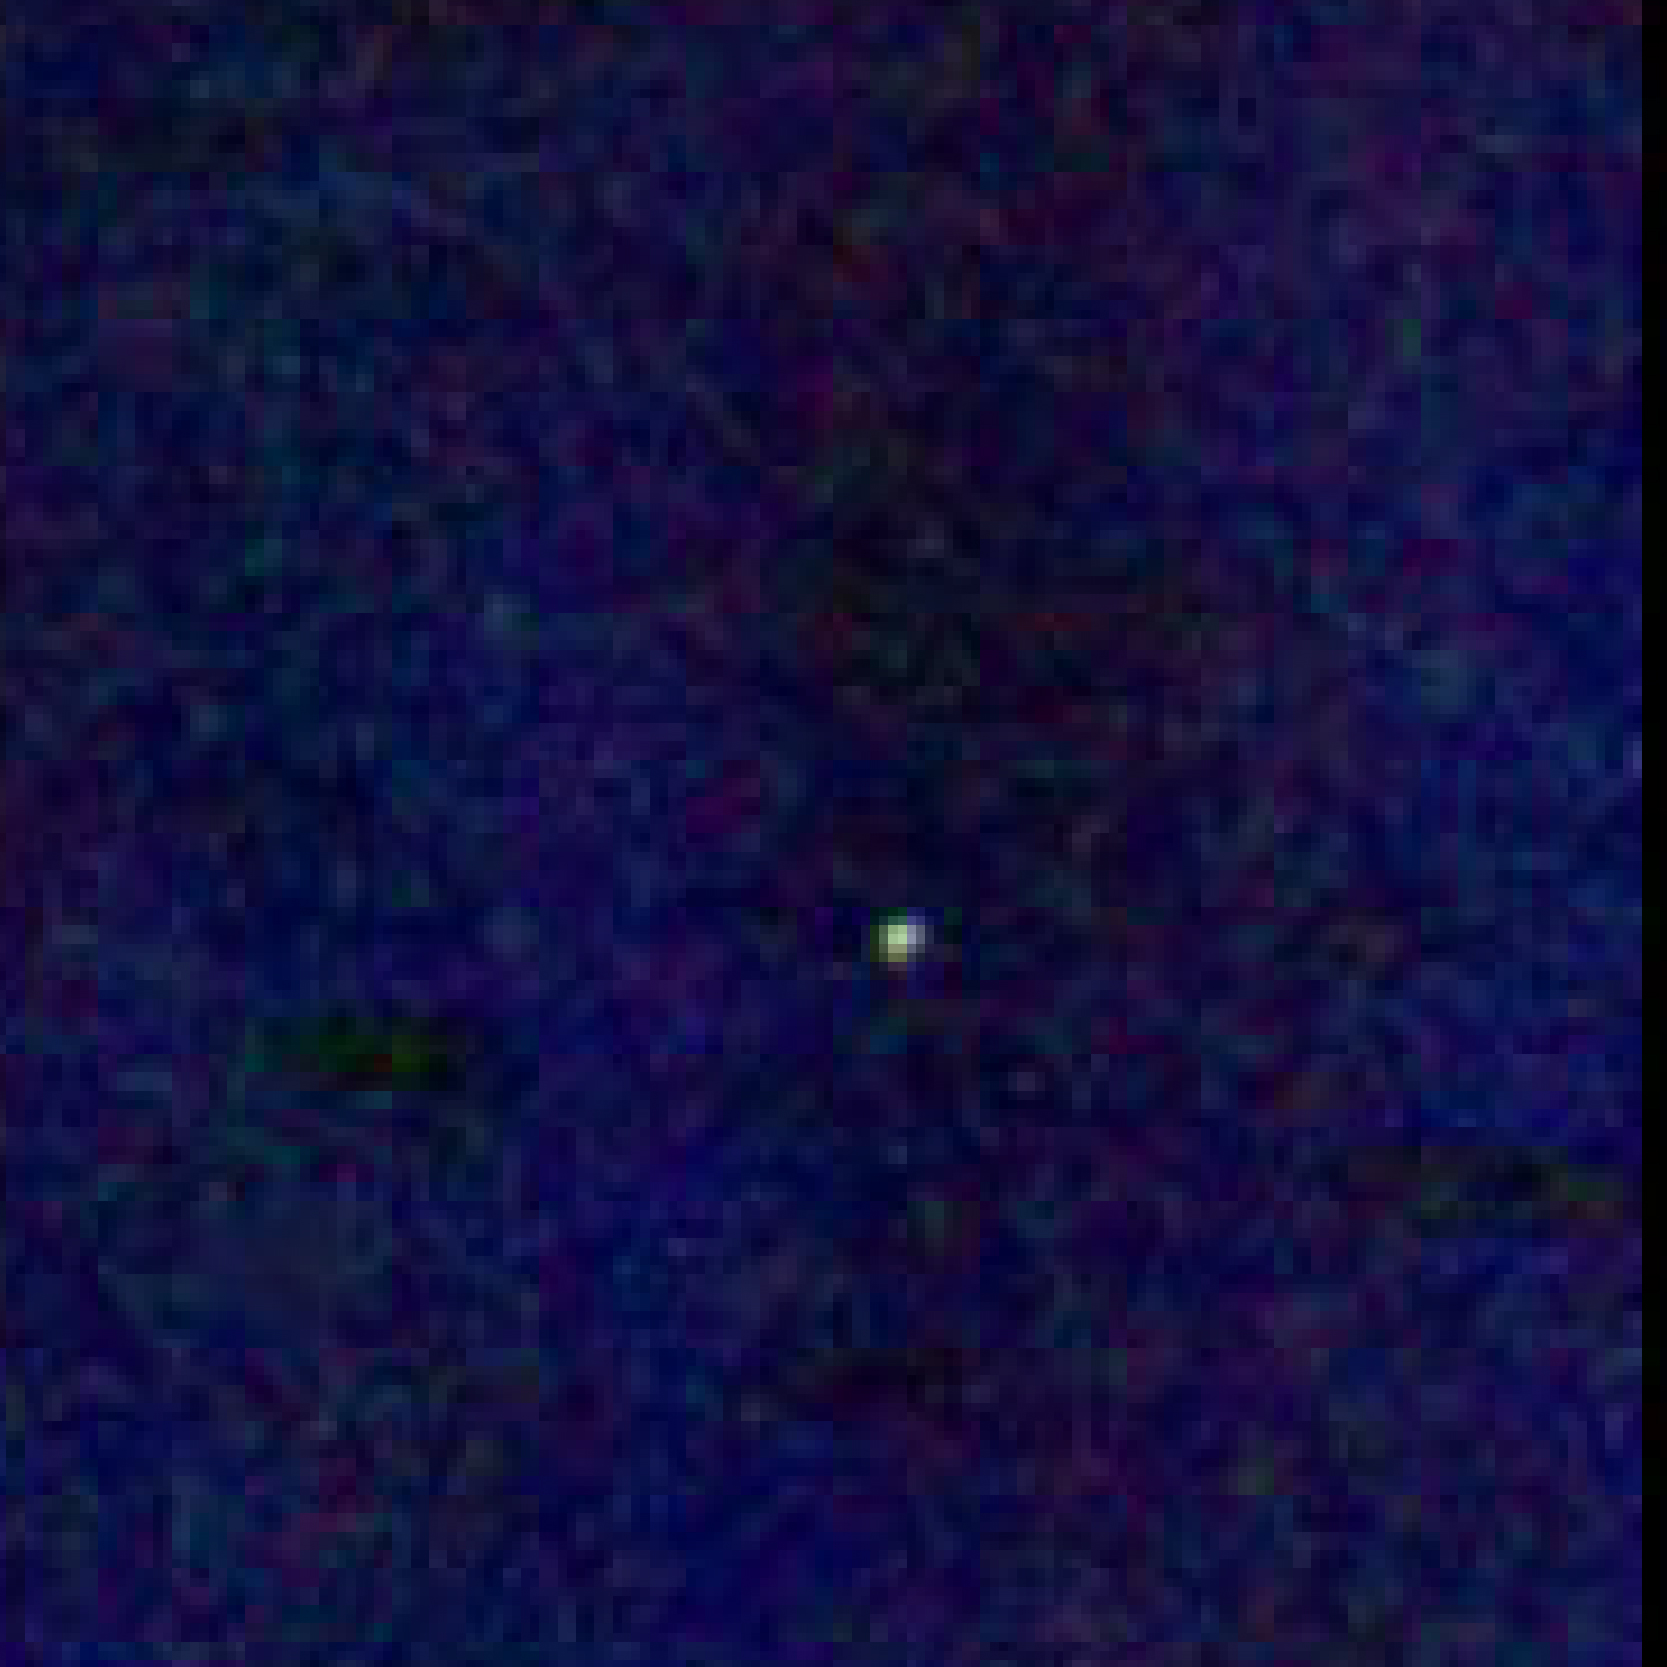
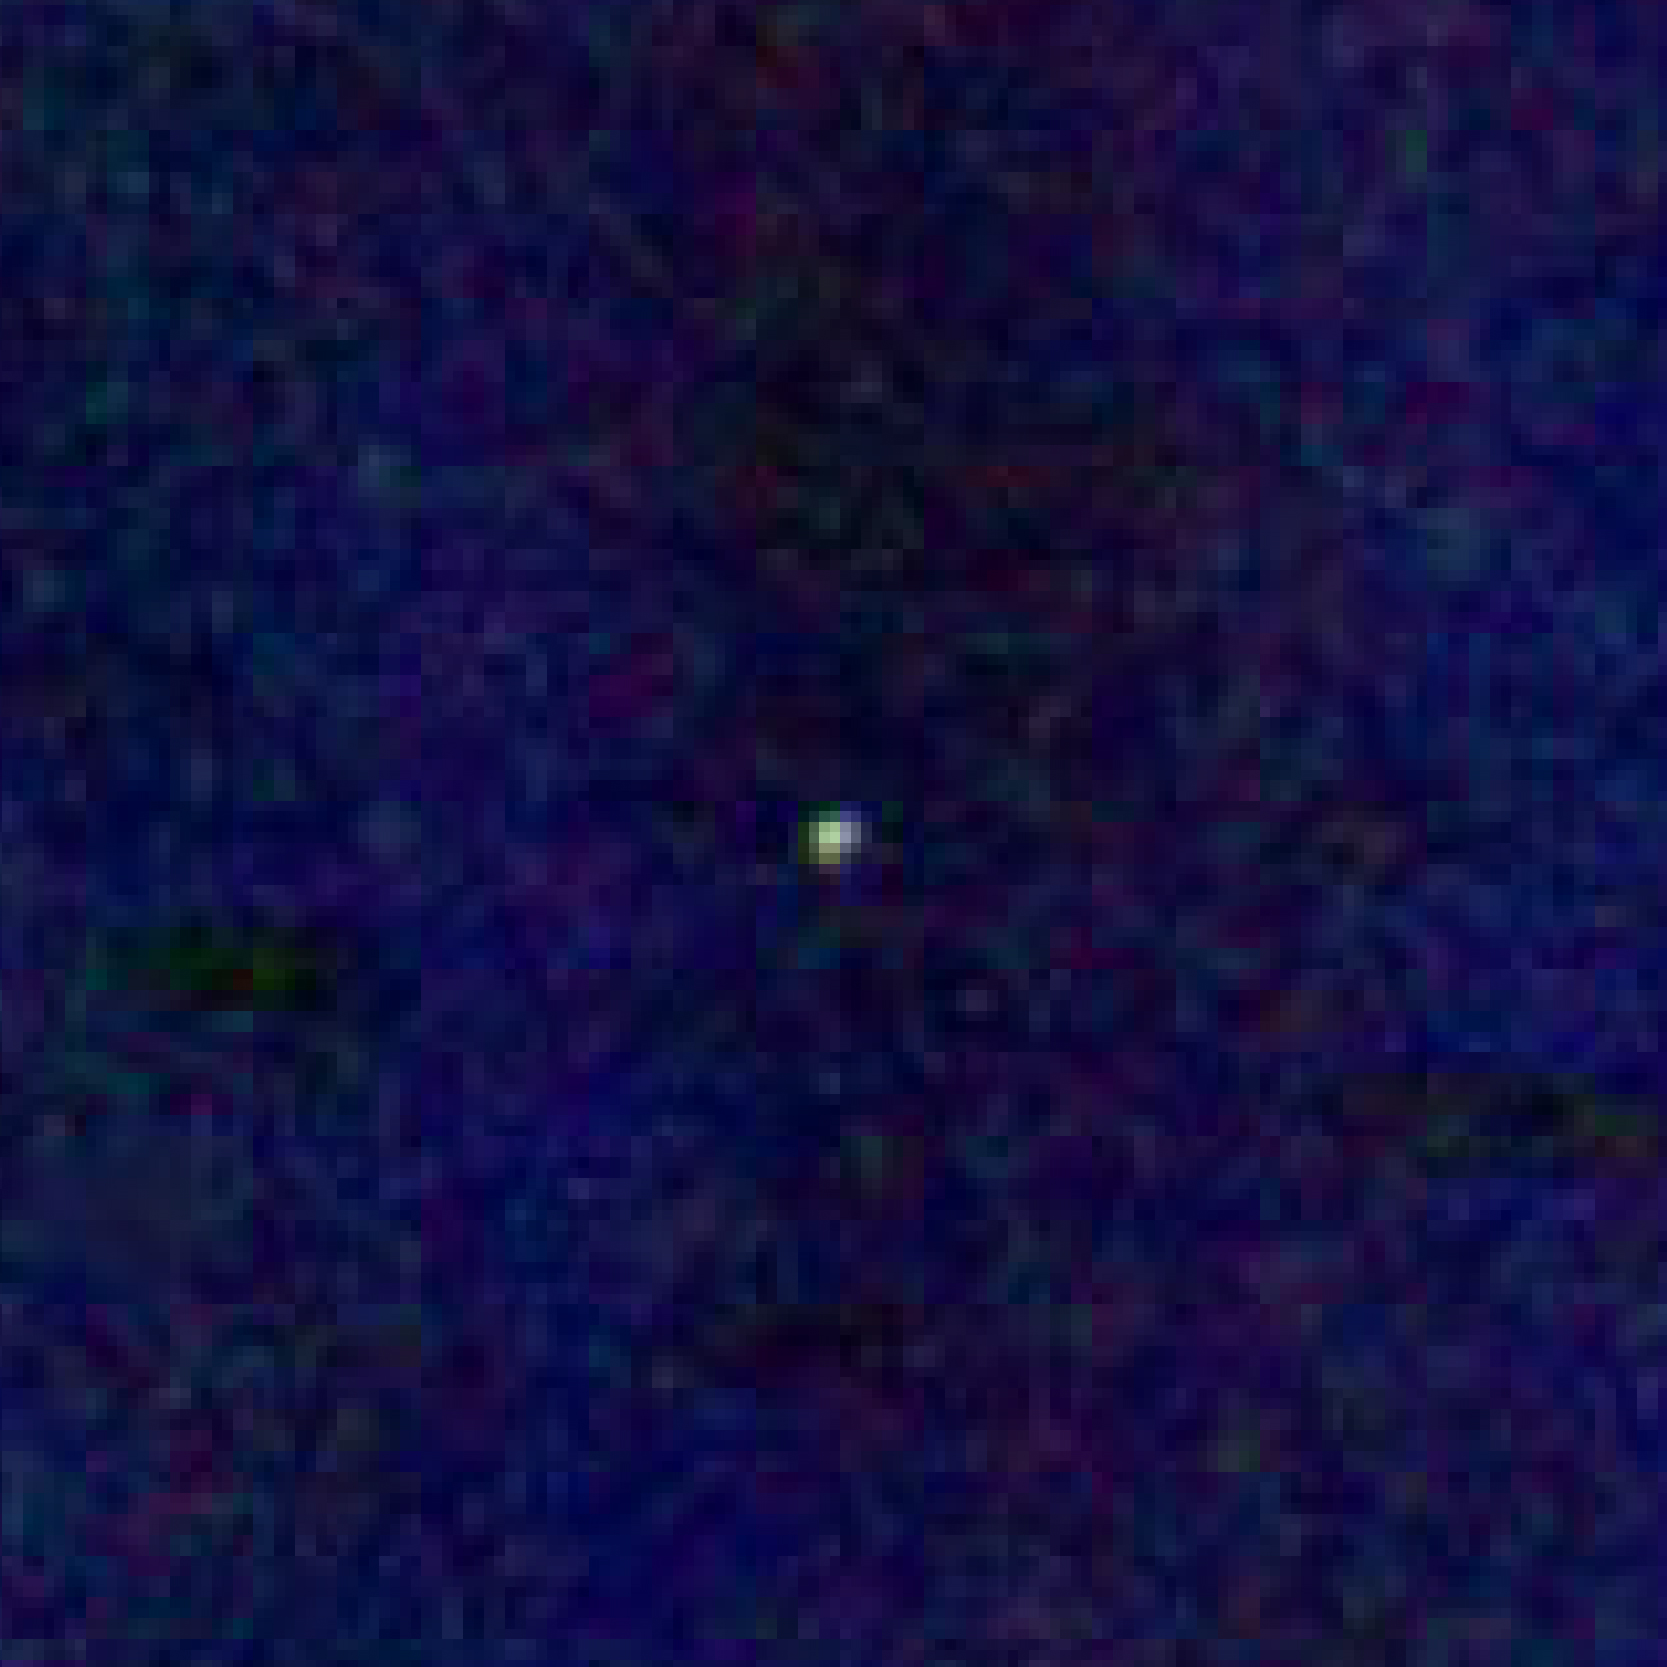
update

diff --git a/index.html b/index.html
@@ -115,7 +115,7 @@
                     <div class="width10"></div>
 
                     <div class="width40 flexend">
-                        <div class="worldimg"><img src="worldsphere.png" alt="a 2d sphere made up of lines" ></div>
+                        <div class="worldimg"><img src="worldsphereinverse.png" alt="a 2d sphere made up of lines" ></div>
                     </div>
                     
                     <div class="flexcol width50 right">
@@ -191,7 +191,7 @@
                     <div class="width50 flexcol">
                         <!-- 1 -->
                         <div class="flexwrap topline2 exomarg2">
-                            <div class="exo exomarg"></div>
+                            <div class="exo1 exomarg"></div>
                             <div class="subhead2 exomarg">EXO-1</div>
                             <div class="body2 exomarg exomarg2">
                                 <strong>Stellar Magnitude:</strong> 8.05 <br>
@@ -201,7 +201,7 @@
                         </div>
                         <!-- 2 -->
                         <div class="flexwrap topline2 exomarg2">
-                            <div class="exo exomarg"></div>
+                            <div class="exo2 exomarg"></div>
                             <div class="subhead2 exomarg">EXO-2</div>
                             <div class="body2 exomarg exomarg2">
                                 <strong>Stellar Magnitude:</strong> 26.602 <br>
@@ -211,7 +211,7 @@
                         </div>
                         <!-- 3 -->
                         <div class="flexwrap topline2 exomarg2">
-                            <div class="exo exomarg"></div>
+                            <div class="exo3 exomarg"></div>
                             <div class="subhead2 exomarg">EXO-3</div>
                             <div class="body2 exomarg exomarg2">
                                 <strong>Stellar Magnitude:</strong> 8.73 <br>
@@ -221,7 +221,7 @@
                         </div>
                         <!-- 4 -->
                         <div class="flexwrap topline2 exomarg2">
-                            <div class="exo exomarg"></div>
+                            <div class="exo4 exomarg"></div>
                             <div class="subhead2 exomarg">EXO-4</div>
                             <div class="body2 exomarg exomarg2">
                                 <strong>Stellar Magnitude:</strong> Unknown <br>
@@ -231,7 +231,7 @@
                         </div>
                         <!-- 5 -->
                         <div class="flexwrap topline2 exomarg2">
-                            <div class="exo exomarg"></div>
+                            <div class="exo5 exomarg"></div>
                             <div class="subhead2 exomarg">EXO-5</div>
                             <div class="body2 exomarg exomarg2">
                                 <strong>Stellar Magnitude:</strong> 12.23 <br>
@@ -241,7 +241,7 @@
                         </div>
                         <!-- 6 -->
                         <div class="flexwrap topline2 exomarg2">
-                            <div class="exo exomarg"></div>
+                            <div class="exo6 exomarg"></div>
                             <div class="subhead2 exomarg">EXO-6</div>
                             <div class="body2 exomarg exomarg2">
                                 <strong>Stellar Magnitude:</strong> 7.305 <br>
@@ -422,7 +422,7 @@
 
 
 <!-- 03 LANDFALL -->
-<div class="flexbox bg1">
+    <div class="flexbox bg1">
         <!-- space for binder -->
         <div class="width5"></div>
         <!-- left margin -->
@@ -564,7 +564,7 @@
 
 
 <!-- 04 ANALYSIS -->
-<div class="flexbox bg2">
+    <div class="flexbox bg2">
         <!-- space for binder -->
         <div class="width5"></div>
         <!-- left margin -->
@@ -576,7 +576,7 @@
                 <div class="width10"><div class="heading rightalign"><span style="font-size: 48px;">04</span></div></div>
                 <div class="width60">
                     <div class="heading">ANALYSIS</div>
-                    <div class="subhead subheadmargleft topline2">THE WORLD 3 MODEL</div>
+                    <div class="subhead subheadmargleft topline">THE WORLD 3 MODEL</div>
                     <div class="body bodypad justifytext">A major purpose in constructing the world model has been to determine which, if any, of these behaviour modes will be most characteristic of the world system as it reaches the limits to growth.</div>
                 </div>
             </div>
@@ -628,16 +628,131 @@
 <div class="break bg2"></div>
 <div class="break bg2"></div>
 
+<div class="flexbox bg2">
+        <!-- space for binder -->
+        <div class="width5"></div>
+        <!-- left margin -->
+        <div class="width10"></div>
+        <!-- content -->
+        <div class="width75">
+            <div class="flexbox width100">
+                <div class="width10"><div class="heading rightalign"><span style="font-size: 48px;">05</span></div></div>
+                <div class="width60">
+                    <div class="heading">GROWTH</div>
+                    <div class="subhead subheadmargleft topline">ARABLE LAND</div>
+                    <div class="body bodypad justifytext">The total world supply of arable land on exo-3 is estimated to be around 3.2 billion hectares. The use of the land is matched with the population growth curve and assumes that it will continue to grow, as technology improves helping food production per hectare. As industrialisation and urbanisation increase with population, the model predicts the appropriate amount of land use needed to create a sustainable feedback loop to preserve the optimal amount of biodiversity for the exponential humanisation.</div>
+                
+                    <div class="break"></div>
 
+                    <div class="subhead subheadmargleft topline">NATURAL RESOURCES</div>
+                    <div class="body bodypad justifytext">Assessment of exo-3 concludes a substantial stockpile of resources that if managed and recycled effectively could provide opportunities for series planetary growth. To ensure proper management the model suggests that a conservative approach to mining be considered to address unnecessary destruction of the natural biosphere.</div>
 
+                    <div class="break"></div>
 
+                    <div class="subhead subheadmargleft topline">INDUSTRIAL OUTPUT</div>
+                    <div class="body bodypad justifytext">As land usage and population increase’s, industrialisation increases at the same rate to match demand. The model of this proposed growth based on the analysis of exo-3 predicts total industrialisation by 2051, however this needs to be managed efficiently and with purpose to ensure maximum benefit of land usage spread between, resource collection, agriculture use, room to live and preservation of the biosphere.</div>
+                    <div class="body bodypad justifytext">The model suggests that industrial growth needs to be managed effectively through policy, crushing the desire for profit over sustainable practices, to ensure the survival of humanity on exo-3. Without major changes to the ways of living experienced on earth, this new potential terrestrial will succumb to our own desire for unlimited growth.</div>
 
+                    <div class="break"></div>
 
+                    <div class="subhead subheadmargleft topline">POPULATION GROWTH</div>
+                    <div class="body bodypad justifytext">The driving factor in growth is resource demand to sustain the population at replacement rate. Should population grow exponentially, other areas such as industry, land use and resource extraction will be required to meet demand. On exo-3 it’s imperative that all these factors of growth be monitored carefully and limited to best preserve the potential new world as well as place limits on inefficient and unnecessary growth.</div>
+                    <div class="body bodypad justifytext">Although the perspectives of the world’s population may vary in space and time, every human concern falls somewhere within a distance and length of space and time.</div>
+                    <div class="body bodypad justifytext">The majority of people are concerned with matters that only affect family and friends over a short period of time. Only a very few people share a global perspective of a planet as connected network of systems. This long-term future dream of a planetary perspective is hoped to be achieved on exo-3.</div>
+                
+                    <div class="break"></div>
 
+                    <div class="subhead subheadmargleft topline">POLLUTION MANAGEMENT</div>
+                    <div class="body bodypad justifytext">The pollution generated by the initial colonisation of exo-3 will be inevitable, however by ensuring use of renewable technologies and limiting and recycling non-renewable material, pollution risks can be mitigated to lessen the impact on the natural surfaces of the untouched terrestrial.</div>
+                    <div class="body bodypad justifytext">The world3 model factors in the improvement of all systems over time as technology improves, therefore accounting for the reduction of pollutants being generated as systems improve and become less reliant on dirty methods of extraction, transportation and usage.</div>
+                    <div class="body bodypad justifytext">As the health technology improves as humanity becomes more established on exo-3, our understanding of the harms of pollutants can be mitigated, however it’s important we acknowledge the harm on the planet as a whole system from a planetary world view.</div>
 
+                </div>
+                <div class="width30"></div>
+            </div>
+        </div>
+        <!-- right margin -->
+        <div class="width10 flex flexend">
+            <div class="caption allcaps captionmargright"></div>
+        </div>
+    </div>
 
+<div class="break bg2"></div>
+<div class="break bg2"></div>
 
+<div class="flexbox bg2">
+        <!-- space for binder -->
+        <div class="width5"></div>
+        <!-- left margin -->
+        <div class="width10"></div>
+        <!-- content -->
+        <div class="width75">
+            <div class="flexbox width100">
+                <div class="width30"></div>
+                <div class="width10"><div class="heading rightalign"><span style="font-size: 48px;">04</span></div></div>
+                <div class="width60">
+                    <div class="heading">SOLUTIONS</div>
+                    <div class="subhead subheadmargleft topline">UNTIL 2100</div>
 
+                    <div class="body bodypad justifytext">Using the world3 model in combination with data and analysis of exo-3, the standard run of quantifying the output of humanities growth exponentially rises until it ends in overshoot and collapse. Industry grows until the amount of resources it requires is unsustainable. This effects capital growth and agricultural efficiency therefore knocking the whole system out of balancing and shifting age structure and social adjustments. Population then finally decreases when the birth death rate becomes unsustainable due to lack of food and health services.</div>
+                        <div class="quote bodypad indent">Most persons think that a state in order to be happy ought to be large; but even if they are right, they have no idea of what is a large and what a small state…. To the size of states there is a limit, as there is to other things, plants, animals, implements; for none of these retain their natural power when they are too large or too small, but they either wholly lose their nature, or are spoiled.
+                            <div class="quote rightalign"><br>ARISTOTLE, 322 B.C.</div>
+                        </div>
+
+                    <div class="break"></div>
+                    <img src="Standard_Run.png" alt="">
+                    <div class="break"></div>
+
+                    <div class="body bodypad justifytext">The model is biased to allow growth to continue longer than it can continue in the real world and therefore growth is expected to cease well before 2100, as society breaks down as the natural resources of exo-3 are diminished and fought over, as the chances for a sustainable new world vanish.</div>
+                </div>
+            </div>
+        </div>
+        <!-- right margin -->
+        <div class="width10 flex flexend"></div>
+    </div>
+
+<div class="break bg2"></div>
+
+<div class="flexbox bg2">
+        <!-- space for binder -->
+        <div class="width5"></div>
+        <!-- left margin -->
+        <div class="width10"></div>
+        <!-- content -->
+        <div class="width75">
+            <div class="flexbox width100">
+                <div class="width30"></div>
+                <div class="width10"></div>
+                <div class="width60">
+                    <div class="subhead subheadmargleft topline">THE LIMITS TO GROWTH</div>
+                    <div class="body bodypad justifytext">As the modelled rate of growth is unsustainable without limits, the Club of Rome and NASA have identified a ‘natural limit’ to be applied to the future society of exo-3 through a stabilised world model that creates self-imposed limits on population growth, resource use, land use and pollution output. With these constraints to a finite system, the rehabilitation of humanity on exo-3 aims to structure a new society that can apply these policies theorised in the sustainable world model.</div>
+                        <div class="quote bodypad indent">Most persons think that a state in order to be happy ought to be large; but even if they are right, they have no idea of what is a large and what a small state…. To the size of states there is a limit, as there is to other things, plants, animals, implements; for none of these retain their natural power when they are too large or too small, but they either wholly lose their nature, or are spoiled.
+                            <div class="quote rightalign"><br>ARISTOTLE, 322 B.C.</div>
+                        </div>
+
+                    <div class="break"></div>
+                    <img src="Standard_Run.png" alt="">
+                    <div class="break"></div>
+
+                    <div class="body bodypad justifytext">1. To achieve sustainability without sudden and uncontrollable collapse a greater emphasis on recycling and technology that conservatively uses non-renewable resources will need to be put in place so that the worlds systems don’t spiral out of control.
+                    <br> <br> 2. That the system needs to be capable of satisfying the basic material requirements of all its people equally by balancing the populates of exo-3 as a whole within line of the other world systems and feedback loops. This can only be achieved through technical advances and social policies that encourage the quality of life of all beings, systems and things on exo-3.
+                    </div>
+                </div>
+            </div>
+        </div>
+        <!-- right margin -->
+        <div class="width10 flex flexend"></div>
+    </div>
+
+<div class="break bg2"></div>
+<div class="break bg2"></div>
+
+<div class="flexbox bg3">
+    <div class="width5"></div>
+    <div class="width10 body2 rightalign">footer</div>
+    <div class="width75"></div>
+    <div class="width10 body2">^ return to top</div>
+</div>
 
 
 

diff --git a/style.css b/style.css
@@ -303,6 +303,10 @@ div.width90{
     width: 90%;
 }
 
+div.width95{
+    width: 95%;
+}
+
 div.width100{
     width: 100%;
 }
@@ -432,7 +436,6 @@ div.coverimg{
 
 div.worldimg{
     width: 56%;
-    background-color: #e6e6e6;
 }
 
 /* Video */
@@ -539,12 +542,70 @@ div.launch{
     
 }
 
-div.exo{
-    /* replace with bg img */
-    background-color: #eebf1c;
+div.exo1{
+    background-image: url(mission-1.jpg);
+    background-size: cover;
+    background-position: center;
+    background-repeat: no-repeat;
     border-radius: 50%;
     width: 100px;
     height: 100px;
+    box-shadow: 0 0 10px #e6e6e6;
+}
+
+div.exo2{
+    background-image: url(mission-2.jpg);
+    background-size: cover;
+    background-position: center;
+    background-repeat: no-repeat;
+    border-radius: 50%;
+    width: 100px;
+    height: 100px;
+    box-shadow: 0 0 10px #e6e6e6;
+}
+
+div.exo3{
+    background-image: url(mission-3.jpg);
+    background-size: cover;
+    background-position: center;
+    background-repeat: no-repeat;
+    border-radius: 50%;
+    width: 100px;
+    height: 100px;
+    box-shadow: 0 0 10px #eebf1c;
+}
+
+div.exo4{
+    background-image: url(mission-4.jpg);
+    background-size: cover;
+    background-position: center;
+    background-repeat: no-repeat;
+    border-radius: 50%;
+    width: 100px;
+    height: 100px;
+    box-shadow: 0 0 10px #e6e6e6;
+}
+
+div.exo5{
+    background-image: url(mission-5.jpg);
+    background-size: cover;
+    background-position: center;
+    background-repeat: no-repeat;
+    border-radius: 50%;
+    width: 100px;
+    height: 100px;
+    box-shadow: 0 0 10px #e6e6e6;
+}
+
+div.exo6{
+    background-image: url(mission-6.jpg);
+    background-size: cover;
+    background-position: center;
+    background-repeat: no-repeat;
+    border-radius: 50%;
+    width: 100px;
+    height: 100px;
+    box-shadow: 0 0 10px #e6e6e6;
 }
 
 div.exomarg{
@@ -629,7 +690,8 @@ div.worldmodel{
     
     overflow: scroll;
 
-    background-image: url(worldmodel2.jpg);
+    background-color: blue;
+    /* background-image: url(worldmodel2.jpg); */
     background-size: 260%;
     background-position: top left 42%;
     background-repeat: no-repeat;

diff --git a/unused_code.html b/unused_code.html
@@ -828,7 +828,7 @@
     </div>
 
     <!-- title -->
-    <div class="heading2 allcaps front">
+    <div class="heading2 allcaps">
         <marquee behavior="alternate" direction="down" height="200px" scrollamount="5">
             <marquee behavior="alternate" scrollamount="10"><span style="font-size: 48px;">The Limits of Growth</span></marquee>
         </marquee>